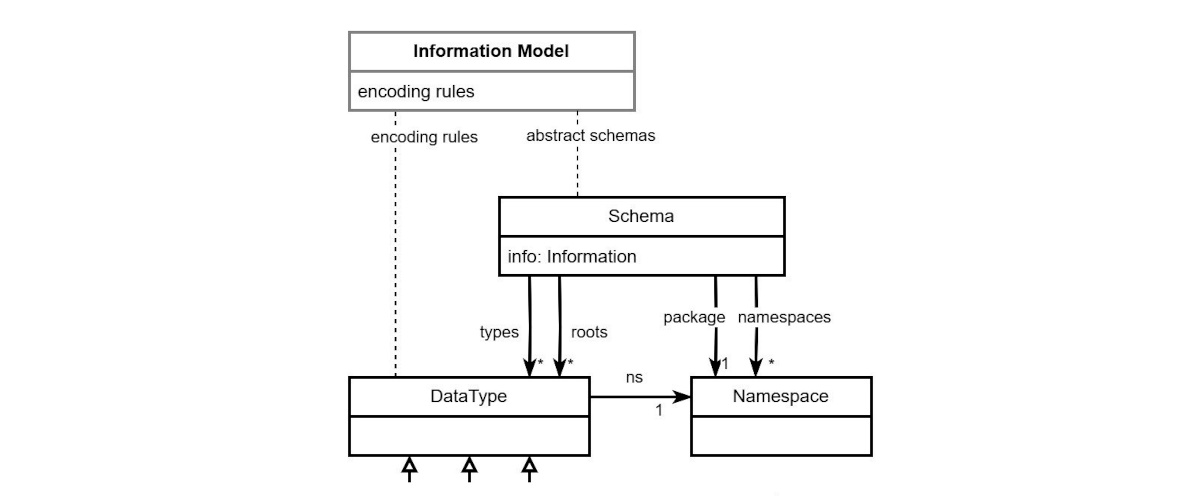
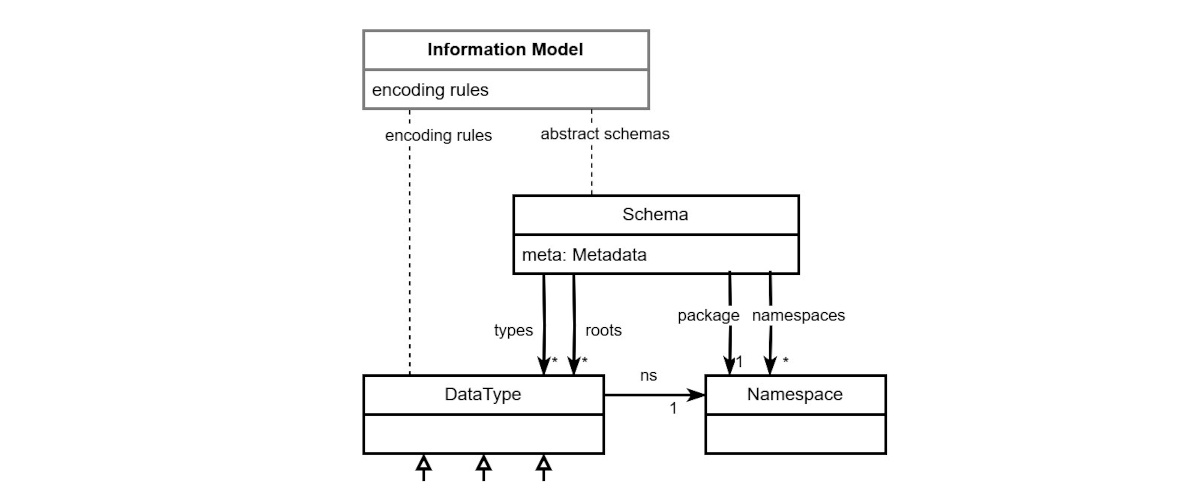
types overview

Changed region(s): [[0.2775, 0.3629, 0.74, 0.9677], [0.2775, 0.0605, 0.555, 0.3024]]

diff --git a/jadn-v1.1.md b/jadn-v1.1.md
@@ -277,7 +277,7 @@ instances that can be compared.
     Serialization, or encoding, converts a logical value into a data value.
     De-serialization, or decoding, classifies a data value and converts it into an instance of a logical type.
 
-* **Description**:
+* **Description (annotation)**:
     Description fields of an information model are reserved for comments from authors to readers
     or maintainers of the model and are ignored by information modeling applications.
 
@@ -310,11 +310,12 @@ organized into abstract schema packages which are included in an application's i
 * An IM consists of a set of abstract schemas that define information content, and a set of
 encoding rules that define the lexical-to-value mapping in a specific data format for each JADN core DataType.
 * Schema is the top level JADN type. It has two fields:
-  * "info" of type "Information" containing descriptive and functional metadata
+  * "meta" of type "Metadata" containing descriptive and functional information about the schema package as a whole.
   * "types" list of type "Type" containing JADN type definitions. Every type definition is a UML DataType
-* Every instance of the Schema type is identified by a globally-unique "package" namespace.
+* Every instance of the Schema type is identified by a globally-unique package namespace.
 Types defined in a package have names qualified by its namespace, and reference types defined in other
-packages by their qualified names.
+packages by their qualified names. An individual Schema instance is called a "package" to distinguish it
+from the set of instances in an information model.
 * There is no "information model" type containing or naming a set of schema packages.
 Applications load the relevant package(s) plus any additional packages needed to
 resolve type references.
